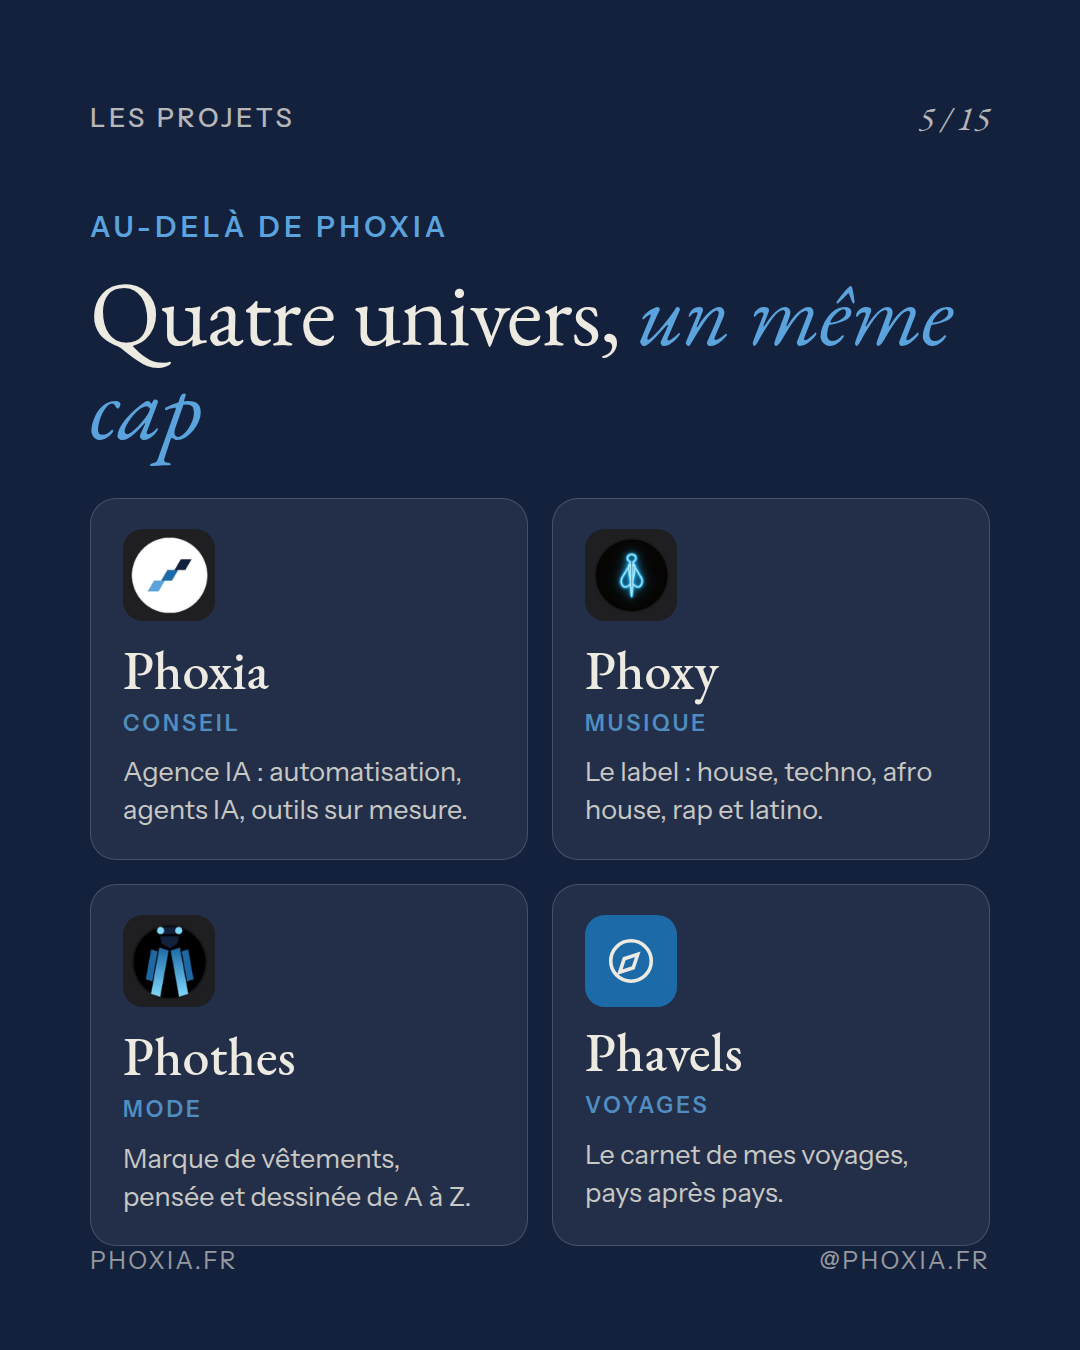
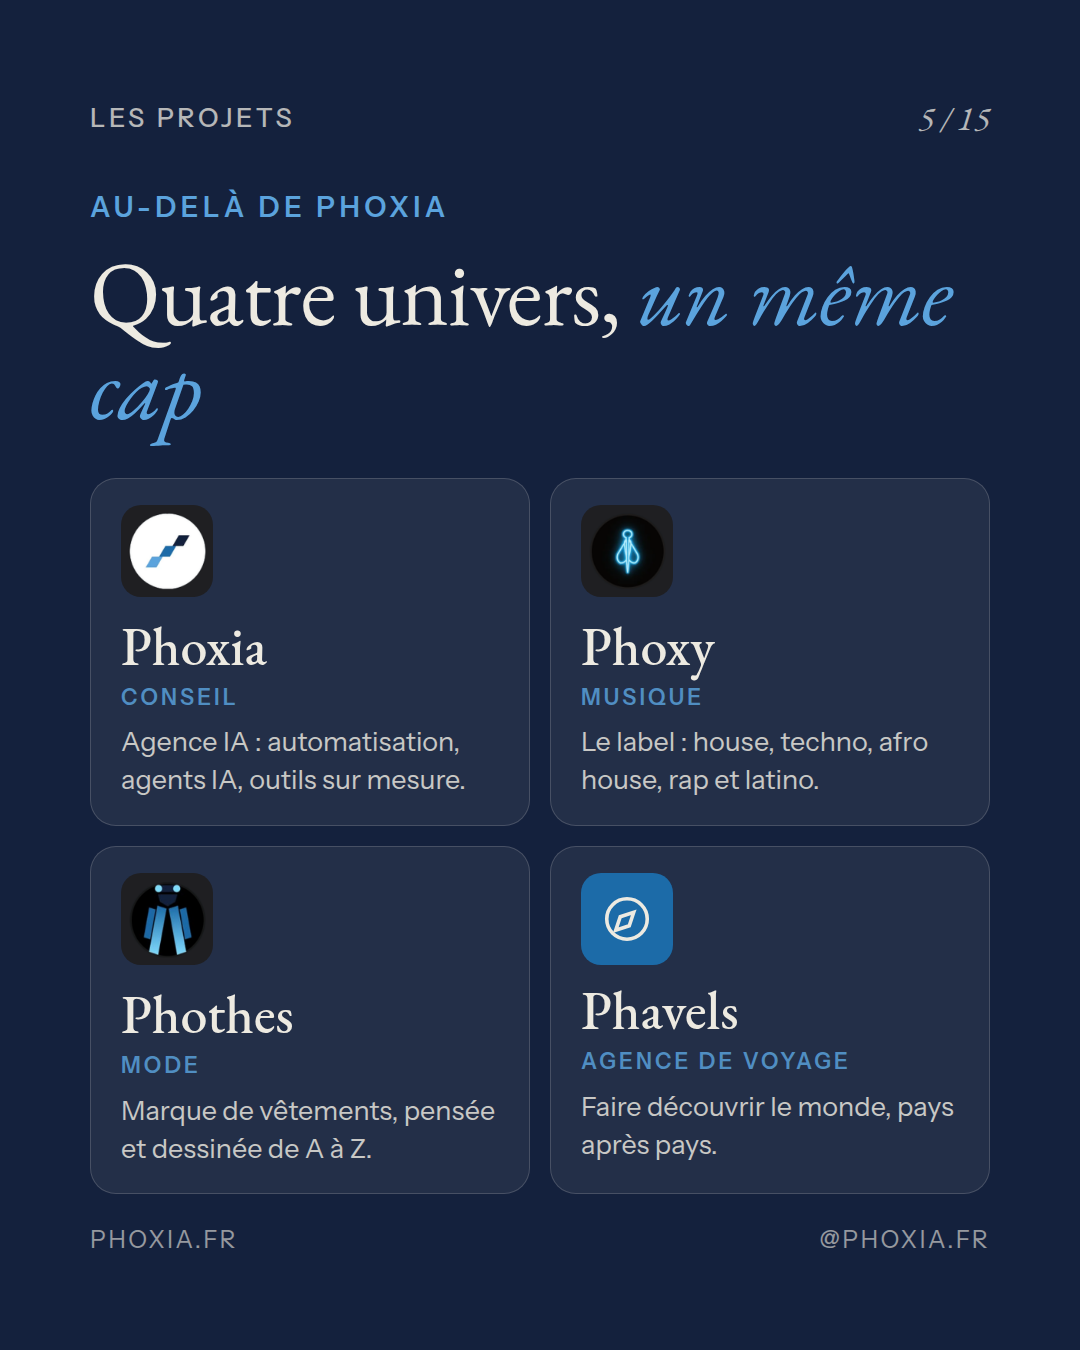
Carrousel Instagram : Phavels présenté comme agence de voyage
Claude-Session: https://claude.ai/code/session_01TMTnMu3aN2J2VFEdaEERUD

diff --git a/instagram/presentation-mathieu/carrousel.html b/instagram/presentation-mathieu/carrousel.html
@@ -60,6 +60,10 @@
   /* Projets */
   .projets { display: grid; grid-template-columns: 1fr 1fr; gap: 24px; margin-top: 44px; }
   #s5 h2 { font-size: 92px; }
+  #s5 .kicker { margin-top: 50px; }
+  #s5 .projets { margin-bottom: 30px; gap: 20px; }
+  #s5 .projet { padding: 26px 30px; }
+  #s5 .projet p { margin-top: 10px; }
   #s2 h2 { font-size: 92px; }
   #s2 .liste { margin-top: 40px; gap: 22px; }
   #s2 .ligne { padding-top: 22px; }
@@ -216,7 +220,7 @@
     <div class="projet"><img src="../../assets/img/univers/logos/phoxia.png" alt=""><h3>Phoxia</h3><p class="tag">Conseil</p><p>Agence IA : automatisation, agents IA, outils sur mesure.</p></div>
     <div class="projet"><img src="../../assets/img/univers/logos/phoxy.png" alt=""><h3>Phoxy</h3><p class="tag">Musique</p><p>Le label : house, techno, afro house, rap et latino.</p></div>
     <div class="projet"><img src="../../assets/img/univers/logos/phothes.png" alt=""><h3>Phothes</h3><p class="tag">Mode</p><p>Marque de vêtements, pensée et dessinée de A à Z.</p></div>
-    <div class="projet"><div class="picto"><svg width="54" height="54" viewBox="0 0 24 24" fill="none" stroke="#EDEAE1" stroke-width="1.6"><circle cx="12" cy="12" r="9"/><path d="m15 9-2 6-6 2 2-6 6-2Z"/></svg></div><h3>Phavels</h3><p class="tag">Voyages</p><p>Le carnet de mes voyages, pays après pays.</p></div>
+    <div class="projet"><div class="picto"><svg width="54" height="54" viewBox="0 0 24 24" fill="none" stroke="#EDEAE1" stroke-width="1.6"><circle cx="12" cy="12" r="9"/><path d="m15 9-2 6-6 2 2-6 6-2Z"/></svg></div><h3>Phavels</h3><p class="tag">Agence de voyage</p><p>Faire découvrir le monde, pays après pays.</p></div>
   </div>
   <div class="bas"><span>phoxia.fr</span><span>@phoxia.fr</span></div>
 </section>
@@ -224,7 +228,7 @@
 <!-- 6. Voyages -->
 <section class="slide slide--blanc" id="s6">
   <div class="haut"><span>Les voyages</span><span class="num">6 / 15</span></div>
-  <p class="kicker">Phavels</p>
+  <p class="kicker">Phavels, agence de voyage</p>
   <h2><em>16 pays,</em> 4 continents</h2>
   <div class="grille">
     <figure><img src="../../assets/img/univers/pays/canada.jpg" alt=""><figcaption>Canada</figcaption></figure>

diff --git a/instagram/presentation-mathieu/legende.md b/instagram/presentation-mathieu/legende.md
@@ -14,7 +14,7 @@ Indépendant depuis 2017 : vente de logiciels au Maroc, analyse de marché au Me
 L'IA appliquée (celle qui fait vraiment gagner du temps), les gens, le réseau, et la transmission auprès des étudiants de l'ESSCA. Et l'assurance : fils d'assureur, j'adore ça. Pour moi, c'est ultra important : bien être assuré, c'est vivre sans souci.
 
 🚀 Mes projets
-Phoxia (conseil IA), Phoxy (label musical), Phothes (mode), Phavels (carnet de voyages).
+Phoxia (conseil IA), Phoxy (label musical), Phothes (mode), Phavels (agence de voyage, @phavels.fr).
 
 🌍 Voyages
 16 pays, 4 continents. Du Canada au Sri Lanka, en passant par le Maroc et la Thaïlande.
